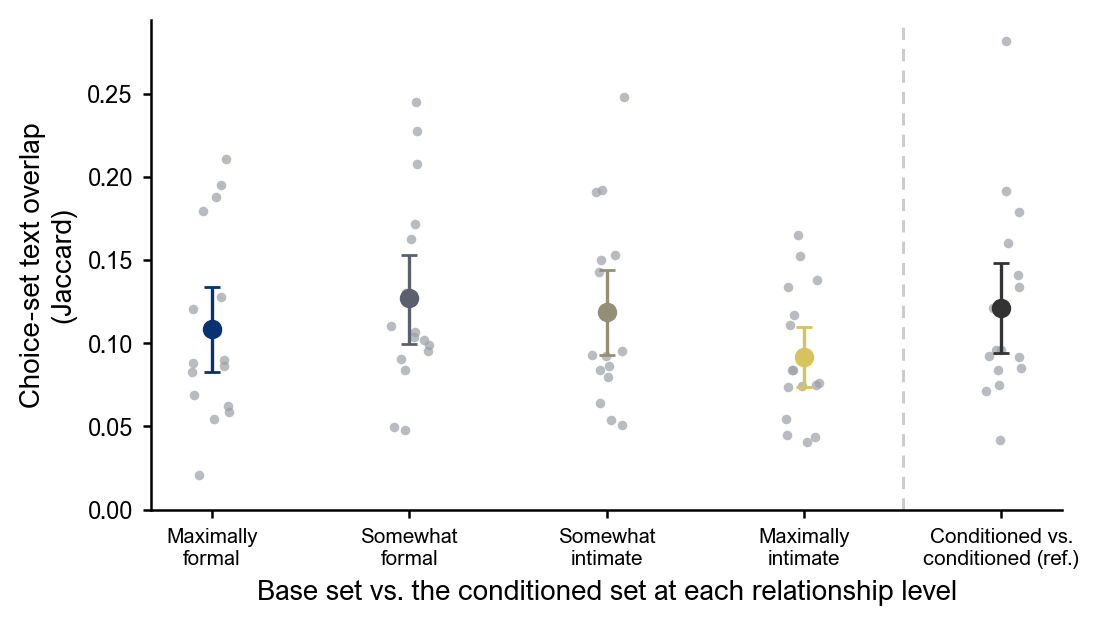
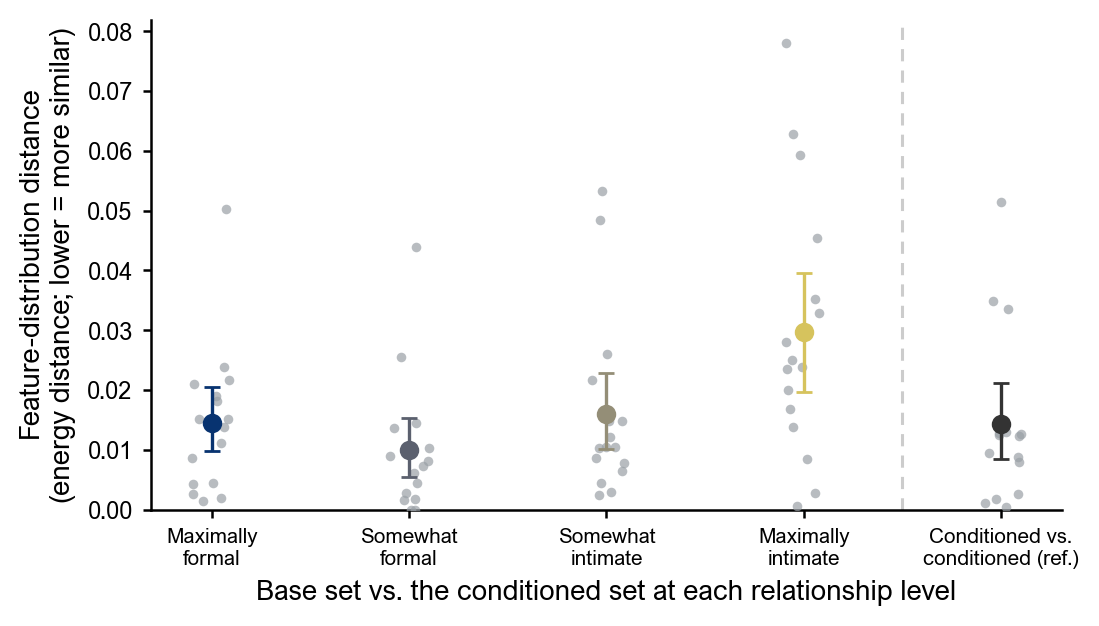
measure base-vs-conditioned alt sets by feature-distribution distance
replace exact-text Jaccard with energy distance over the (g, risk, effort) clouds in fig_si_base_vs_full — text overlap sat at the sampling-noise floor and hid structure; the feature distance is what the planner sees and shows the base set behaves like a formal-conditioned set

diff --git a/model/lm/plot_alternatives.py b/model/lm/plot_alternatives.py
@@ -56,6 +56,7 @@ import numpy as np
 import pandas as pd
 import umap
 from matplotlib.lines import Line2D
+from scipy.spatial.distance import cdist
 
 sys.path.insert(0, str(Path(__file__).resolve().parent.parent.parent))
 from plot_style import (  # noqa: E402
@@ -657,52 +658,91 @@ def fig_si_g_contrast(runs):
 # ----------------------------------------------------------------------------
 
 
-def fig_si_base_vs_full(d, alts):
+def _alt_feature_clouds(runs, cell_cols):
+    """cell key -> (N, 3) array of (risk, effort, g) for the alternatives in that
+    cell, pooled over runs. Instances are kept (not deduplicated by text): the
+    per-run sets are what the planner sees, so their pooled feature distribution
+    -- including how often an alternative recurs -- is the landscape we compare."""
+    clouds = {}
+    for key, grp in runs.groupby(cell_cols):
+        pts = [
+            (a["risk"], a["effort"], a["g"])
+            for actions in grp["actions"]
+            for a in actions
+            if not a["is_canonical"]
+            and a["risk"] is not None
+            and a["effort"] is not None
+            and a["g"] is not None
+        ]
+        if pts:
+            clouds[key] = np.asarray(pts, dtype=float)
+    return clouds
+
+
+def _energy_distance(X, Y):
+    """Szekely-Rizzo energy distance between two point sets: 2 E|X-Y| - E|X-X'|
+    - E|Y-Y'|, a proper distance between distributions (0 iff equal), computed
+    here in the [0,1]^3 (risk, effort, g) feature space. The within-set terms
+    exclude self-pairs so the estimate is unbiased for finite samples."""
+
+    def within(A):
+        n = len(A)
+        if n < 2:
+            return 0.0
+        D = cdist(A, A)
+        return (D.sum() - np.trace(D)) / (n * (n - 1))
+
+    return max(0.0, 2 * cdist(X, Y).mean() - within(X) - within(Y))
+
+
+def fig_si_base_vs_full(d, runs):
     """The base ablation's alternatives are elicited without the relationship
-    paragraph (lm_alternatives_base.jsonl). For each (scenario, observed
-    action, effort) cell, the exact-text Jaccard overlap between the base set
-    and each relationship level's conditioned set; the rightmost category is
-    the reference overlap between conditioned sets at different levels. If
-    base-vs-conditioned matches the reference, the relationship-free set is as
-    similar to any conditioned set as the conditioned sets are to each other."""
-    base_path = d / "lm_alternatives_base.jsonl"
+    paragraph (lm_runs_base.jsonl). Because those features -- not the exact
+    wording -- are what enters the planner, we compare the feature distributions
+    of the sets rather than their text. For each (scenario, observed action,
+    effort) cell, the energy distance between the base set's (risk, effort, g)
+    cloud and each relationship level's conditioned cloud; the rightmost
+    category is the reference distance between conditioned clouds at different
+    levels. Lower is more similar, so if base-vs-conditioned matches the
+    reference, the relationship-free set presents the same feature landscape to
+    the planner as any conditioned set does to another."""
+    base_path = d / "lm_runs_base.jsonl"
     if not base_path.exists():
-        print("skipping base-vs-full figure: lm_alternatives_base.jsonl not found")
+        print("skipping base-vs-full figure: lm_runs_base.jsonl not found")
         return None
-    if "intimacy_condition" not in alts.columns:
+    if "intimacy_condition" not in runs.columns:
         print("skipping base-vs-full figure: study has no relationship axis")
         return None
-    base = pd.read_json(base_path, lines=True)
+    base_runs = pd.read_json(base_path, lines=True)
 
     cell_cols = ["scenario_label", "observed_action", "effort_condition"]
-    base_sets = base.groupby(cell_cols)["action_text"].agg(set)
-    full_sets = alts.groupby([*cell_cols, "intimacy_condition"])["action_text"].agg(set)
-
-    def jac(a, b):
-        return len(a & b) / len(a | b)
+    base_clouds = _alt_feature_clouds(base_runs, cell_cols)
+    cond_clouds = _alt_feature_clouds(runs, [*cell_cols, "intimacy_condition"])
 
     recs = []
-    for key, bset in base_sets.items():
-        level_sets = {lvl: full_sets.get((*key, lvl), None) for lvl in INTIMACY_LEVELS}
-        if any(v is None for v in level_sets.values()):
+    for key, bcloud in base_clouds.items():
+        levels = {lvl: cond_clouds.get((*key, lvl)) for lvl in INTIMACY_LEVELS}
+        if any(v is None for v in levels.values()):
             continue
         for lvl in INTIMACY_LEVELS:
             recs.append(
                 dict(
-                    scenario=key[0], comparison=lvl, jaccard=jac(bset, level_sets[lvl])
+                    scenario=key[0],
+                    comparison=lvl,
+                    dist=_energy_distance(bcloud, levels[lvl]),
                 )
             )
         pairs = [
-            jac(level_sets[l1], level_sets[l2])
+            _energy_distance(levels[l1], levels[l2])
             for i, l1 in enumerate(INTIMACY_LEVELS)
             for l2 in INTIMACY_LEVELS[i + 1 :]
         ]
         recs.append(
-            dict(scenario=key[0], comparison="reference", jaccard=float(np.mean(pairs)))
+            dict(scenario=key[0], comparison="reference", dist=float(np.mean(pairs)))
         )
     per_scen = (
         pd.DataFrame(recs)
-        .groupby(["scenario", "comparison"], as_index=False)["jaccard"]
+        .groupby(["scenario", "comparison"], as_index=False)["dist"]
         .mean()
     )
 
@@ -710,7 +750,7 @@ def fig_si_base_vs_full(d, alts):
     fig, ax = plt.subplots(figsize=(5.6, 3.2))
     rng = np.random.default_rng(0)
     for x, cat in enumerate(cats):
-        vals = per_scen.loc[per_scen["comparison"] == cat, "jaccard"].to_numpy()
+        vals = per_scen.loc[per_scen["comparison"] == cat, "dist"].to_numpy()
         ax.scatter(
             x + rng.uniform(-0.1, 0.1, len(vals)),
             vals,
@@ -741,7 +781,9 @@ def fig_si_base_vs_full(d, alts):
         fontsize=7.5,
     )
     ax.set_xlabel("Base set vs. the conditioned set at each relationship level")
-    ax.set_ylabel("Choice-set text overlap\n(Jaccard)")
+    ax.set_ylabel(
+        "Feature-distribution distance\n(energy distance; lower = more similar)"
+    )
     ax.set_ylim(bottom=0)
     fig.tight_layout()
     return savefig(fig, "si_lm_base_vs_full")
@@ -938,7 +980,7 @@ def main(study, seed, example_scenario, figures):
             fig_si_composition(alts, sem),
             fig_si_set_similarity(alts, sem, npz["alt_emb"]),
             fig_si_g_contrast(runs),
-            fig_si_base_vs_full(d, alts),
+            fig_si_base_vs_full(d, runs),
         ):
             if path:
                 print(f"wrote {path}")
